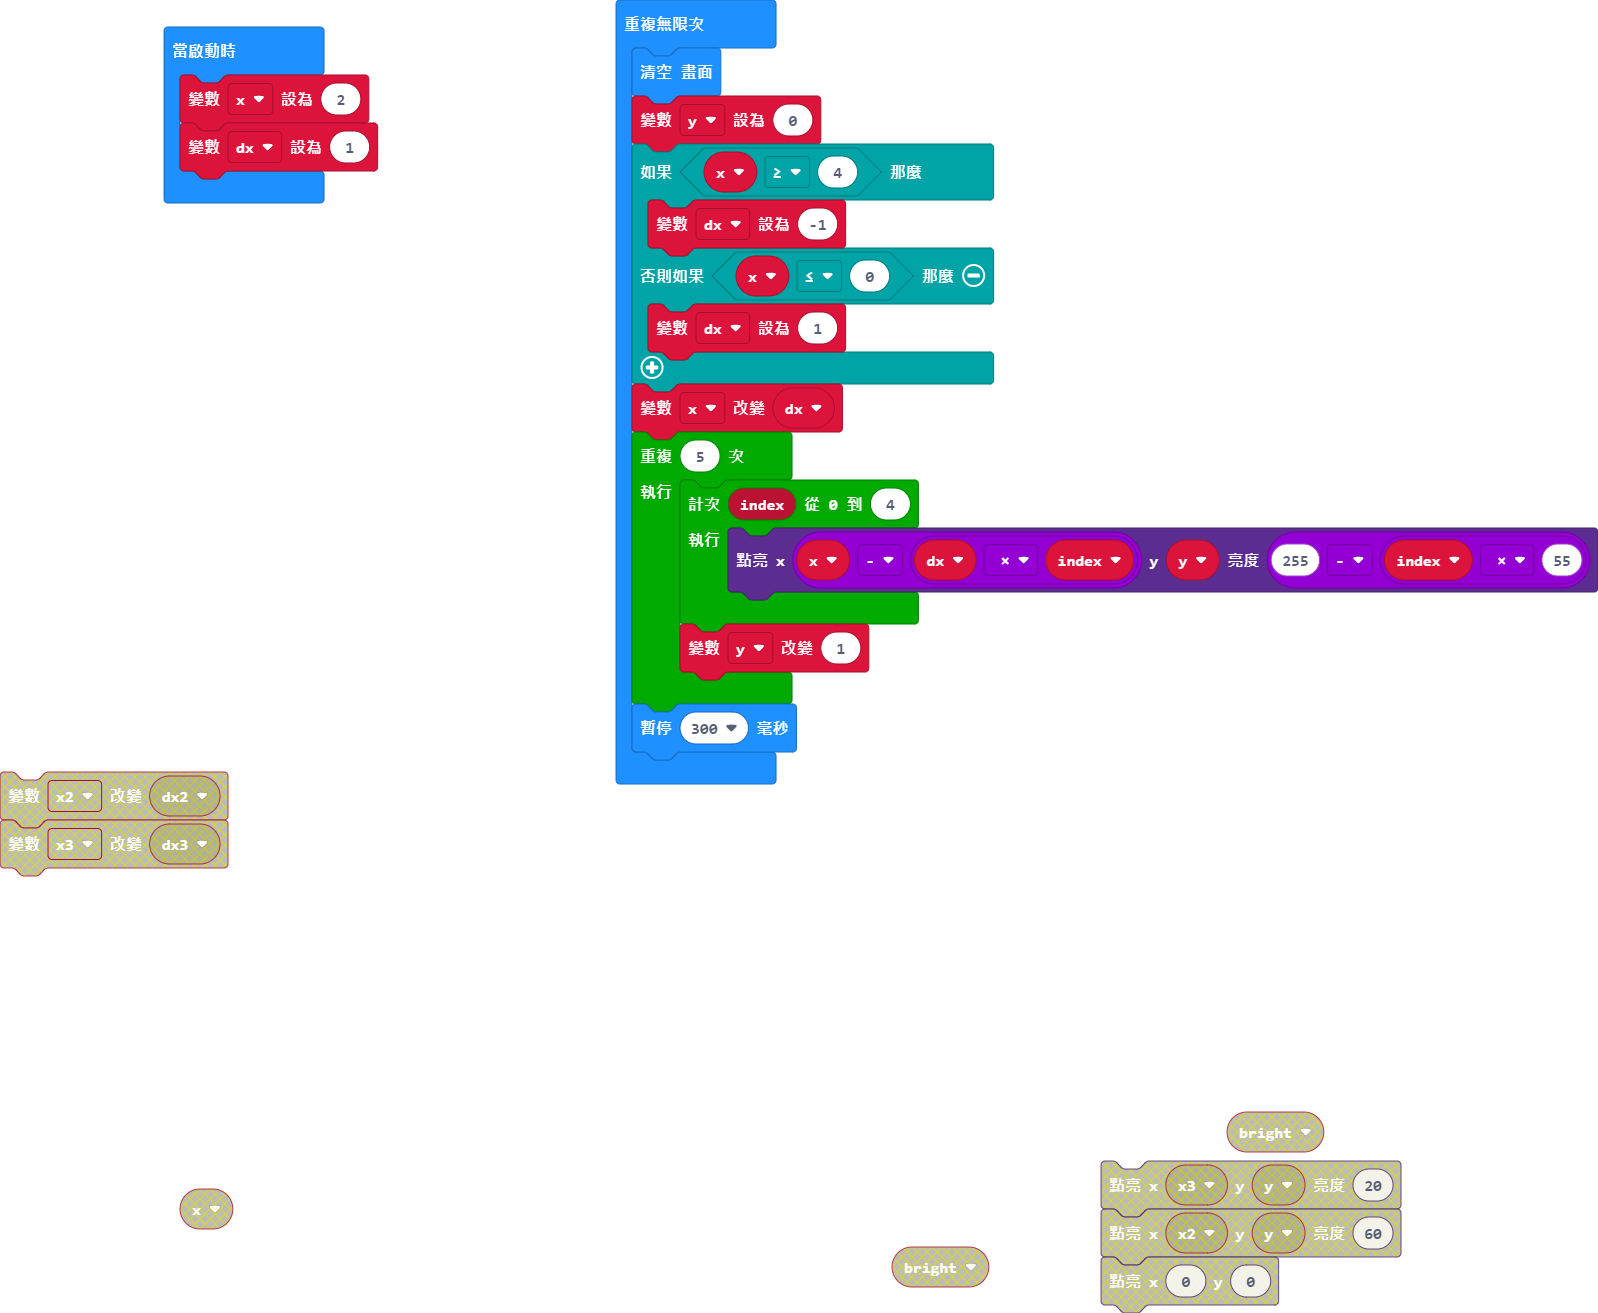
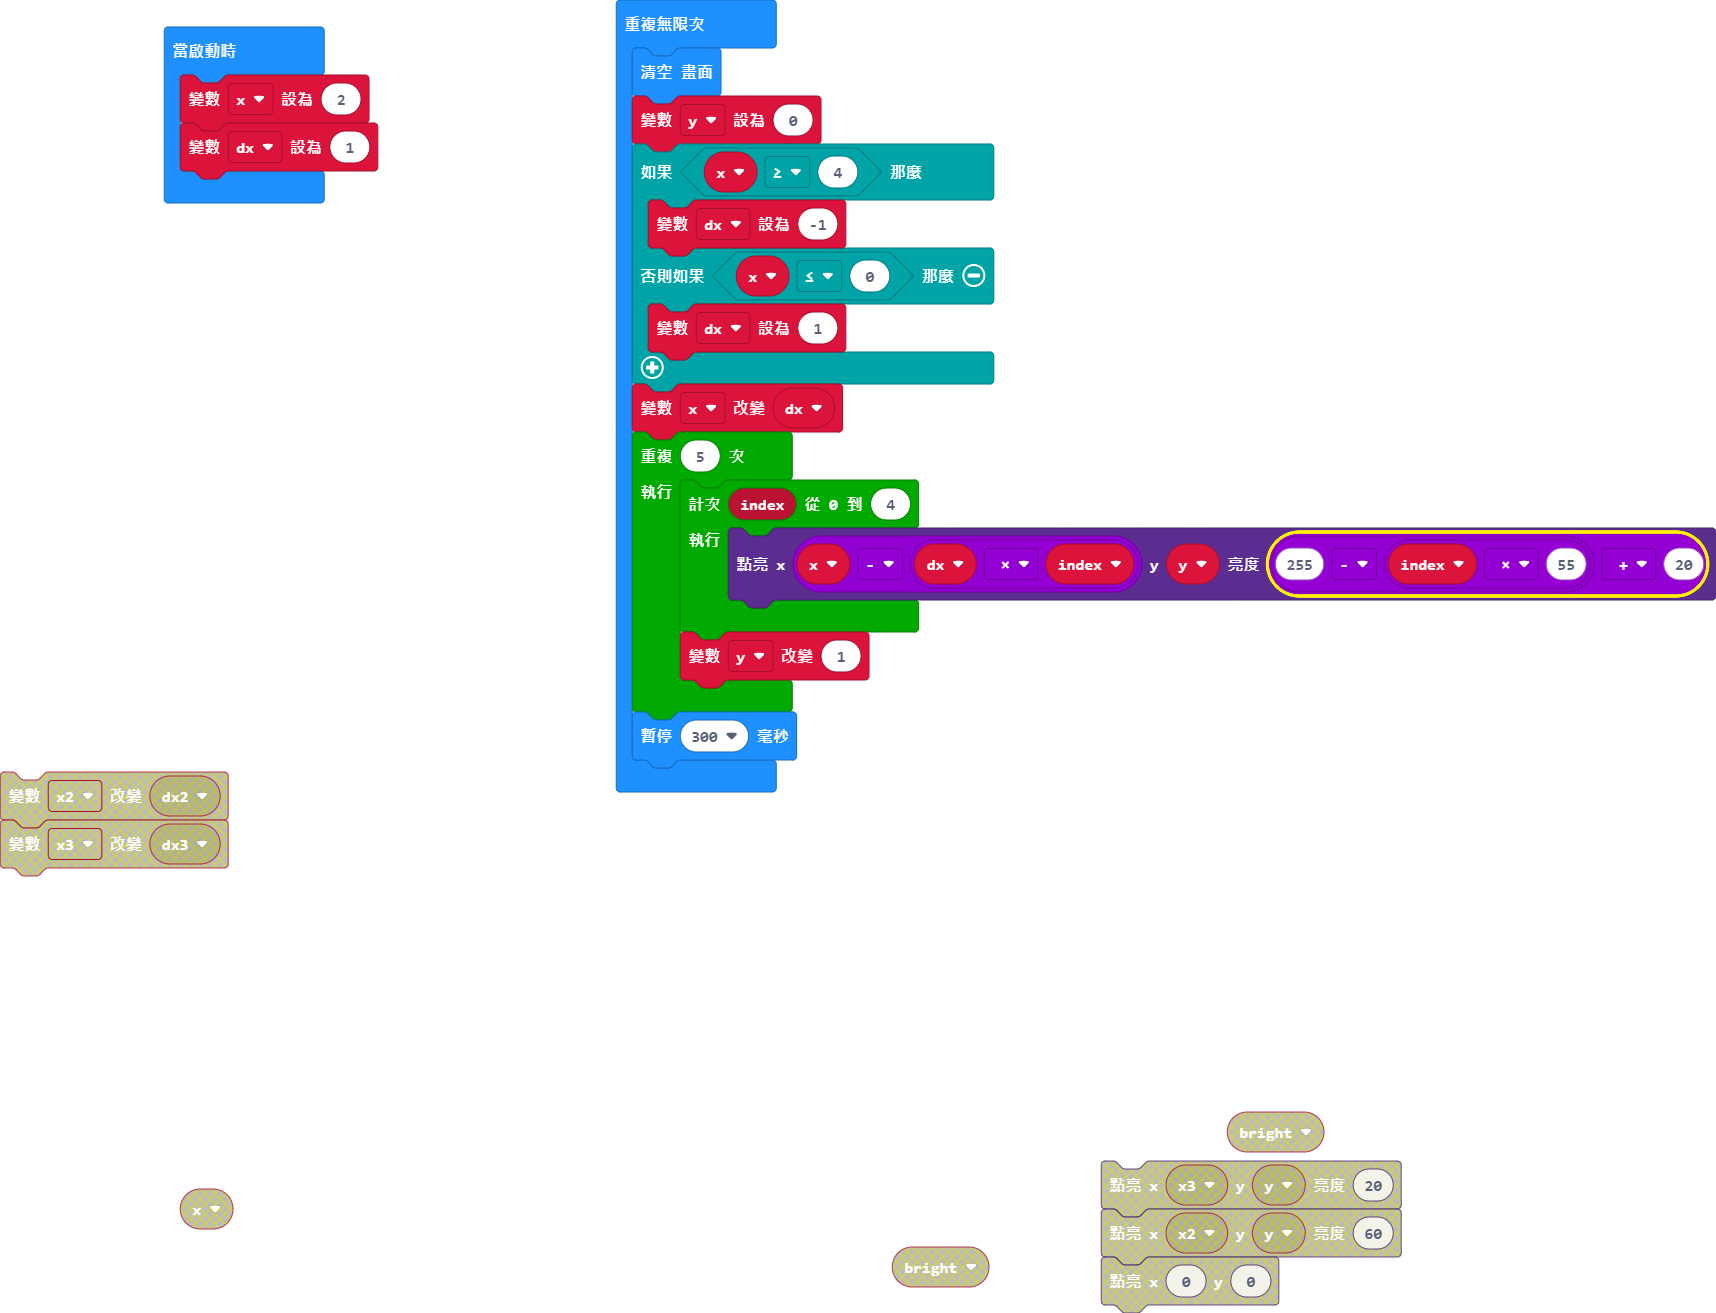
更新 main.blocks, main.ts

diff --git a/main.ts b/main.ts
@@ -12,7 +12,7 @@ basic.forever(function () {
     x += dx
     for (let index = 0; index < 5; index++) {
         for (let index = 0; index <= 4; index++) {
-            led.plotBrightness(x - dx * index, y, 255 - index * 55)
+            led.plotBrightness(x - dx * index, y, 255 - index * 55 + 20)
         }
         y += 1
     }
